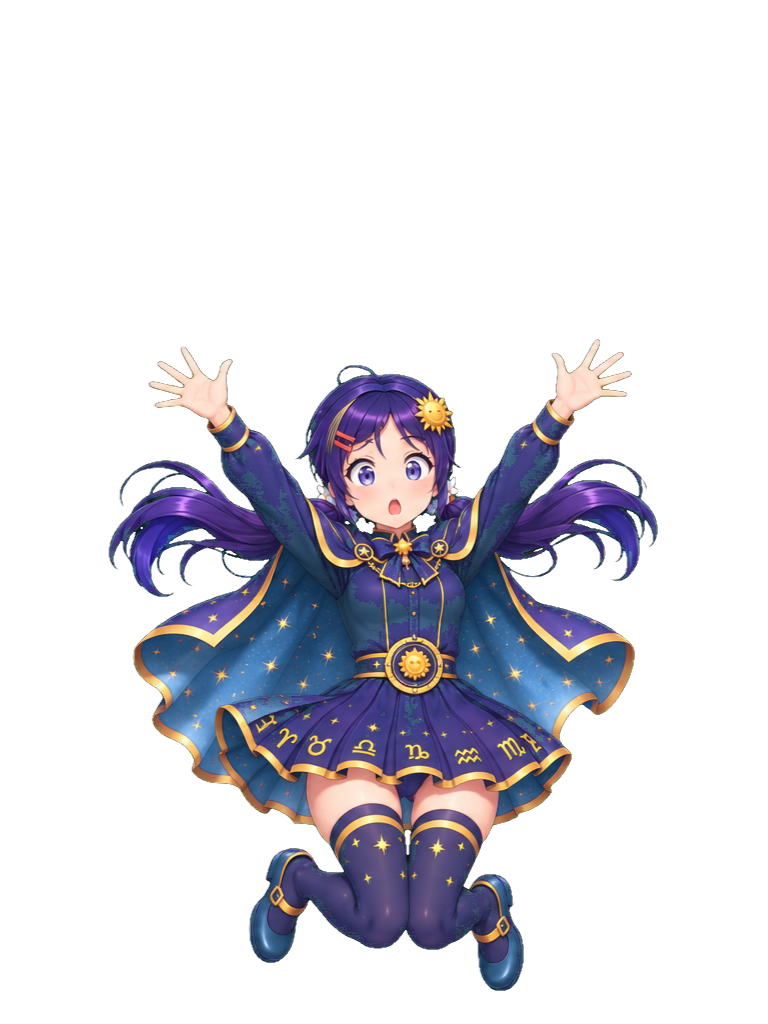
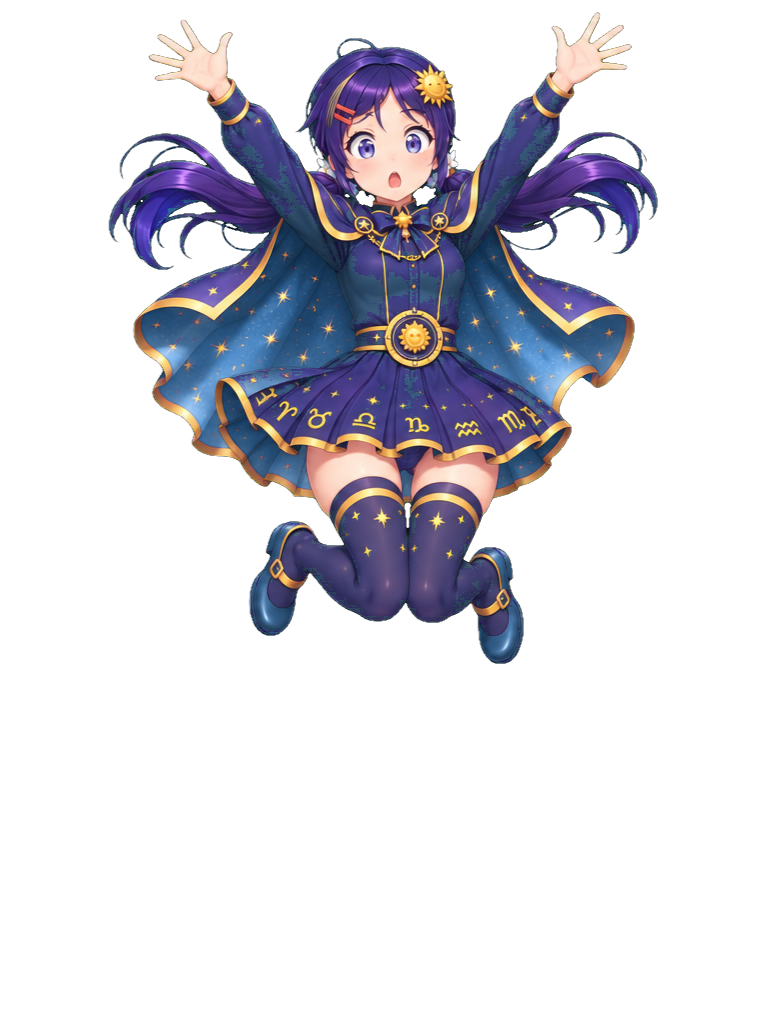
51-mita-craft: позы в воздухе не прижимать к полу
Claude-Session: https://claude.ai/code/session_012PNwYZXdw6QfqQCMnTcc5j

diff --git a/projects/51-mita-craft/snap_preview.py b/projects/51-mita-craft/snap_preview.py
@@ -41,6 +41,9 @@ def body_x(a):
     return 0.5 * head + 0.5 * legs
 
 
+AIRBORNE = {'jump_5', 'jump_3', 'jump_4', 'jump_6', 'jump_7', 'jump_45', 'jump_55'}   # позы в воздухе
+
+
 def align_all(names):
     AL.mkdir(exist_ok=True)
     order = list(names)
@@ -49,7 +52,8 @@ def align_all(names):
         x = xs[n] if n != 'astro_sc3' else xs['astro_sc2']   # в последнем кадре она наклоняется к зрителю — наклон оставляем
         a = anim.pose(n)
         ys = np.nonzero(a[..., 3] > 60)[0]
-        Image.fromarray(anim._translate(a, np.array([384 - x, 990 - ys.max()], np.float32))).save(AL / f'{n}.png')
+        dy = 0.0 if n in AIRBORNE else 990 - ys.max()      # в прыжке — высота как на листе (пол листа ≈ 990)
+        Image.fromarray(anim._translate(a, np.array([384 - x, dy], np.float32))).save(AL / f'{n}.png')
 
 
 HERE = Path(__file__).resolve().parent
